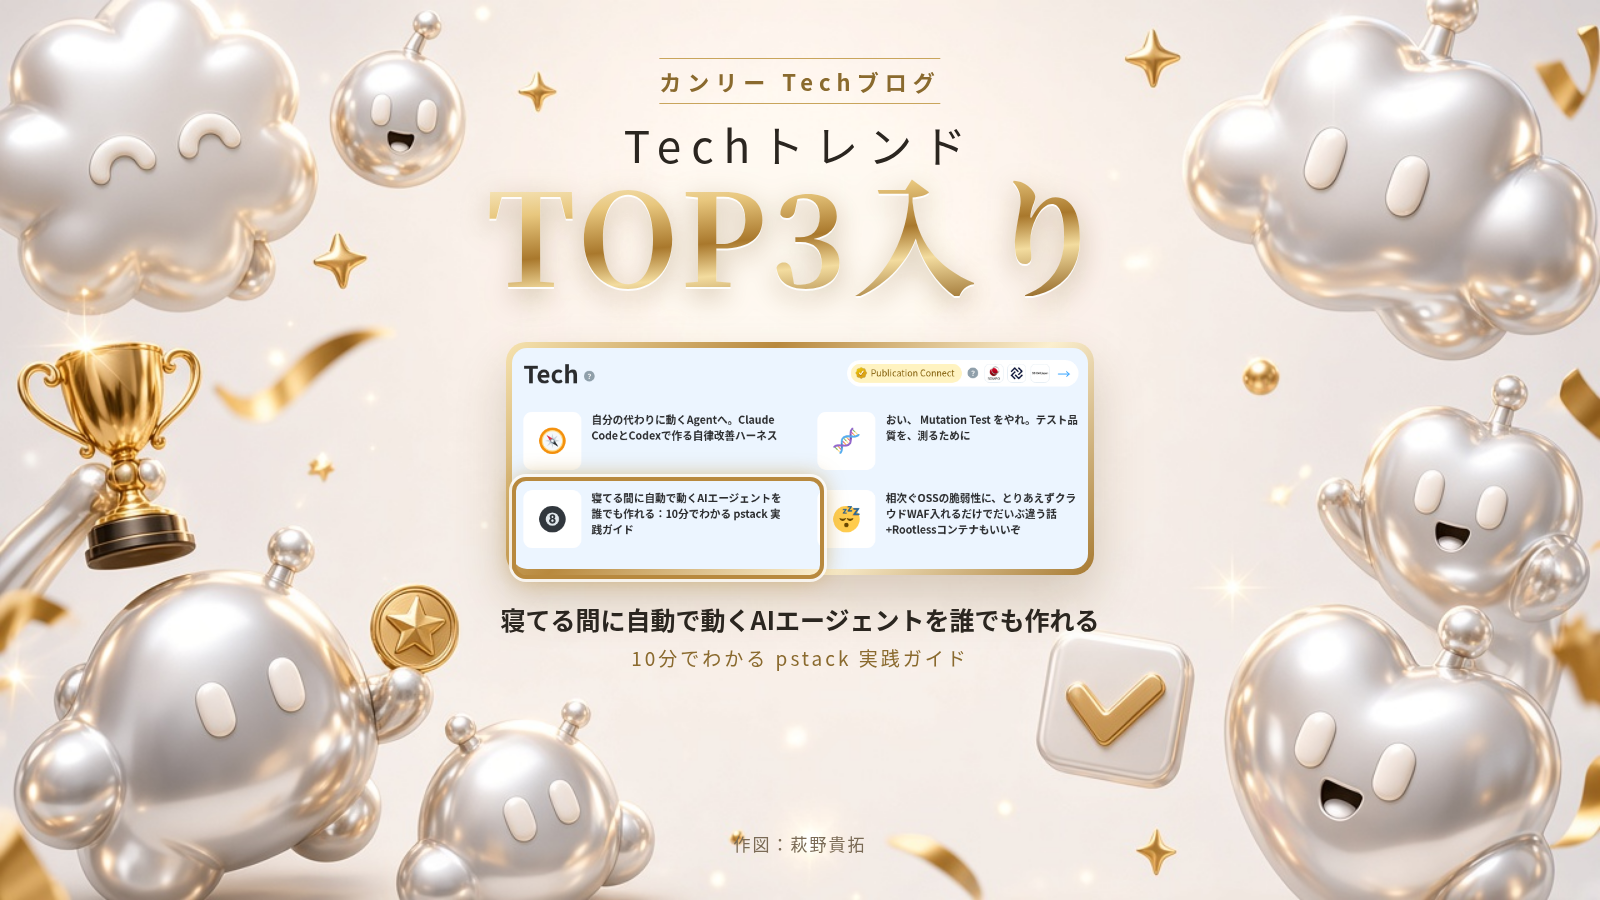
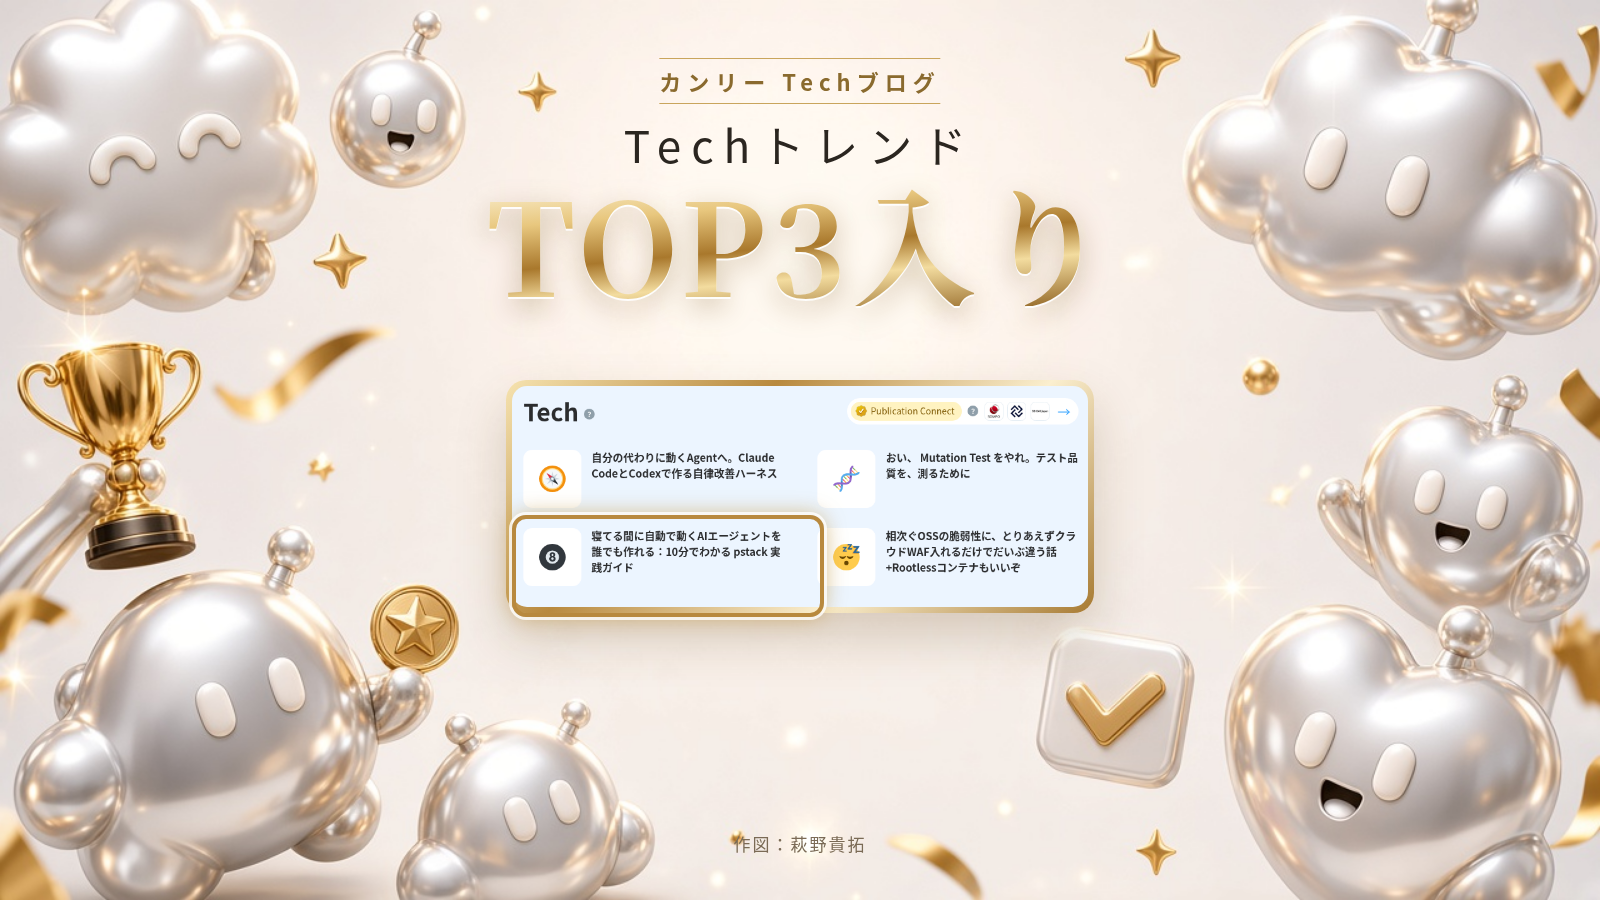
lux: drop title strip

Changed region(s): [[0.3125, 0.3733, 0.6875, 0.7467], [0.3125, 0.1867, 0.6875, 0.3422]]

diff --git a/2026-11-19/pstack-jissen/celebration/zenn_top3_lux/src/a.html b/2026-11-19/pstack-jissen/celebration/zenn_top3_lux/src/a.html
@@ -4,8 +4,8 @@ body{width:1600px;height:900px;background:url(bg.jpg) center/cover;font-family:"
 .c{position:absolute;left:50%;transform:translateX(-50%);text-align:center;white-space:nowrap}
 .lab{top:58px;color:#8a6a2e;font-weight:700;font-size:22px;letter-spacing:6px;padding:6px 0;border-top:1.5px solid #c9a55c;border-bottom:1.5px solid #c9a55c}
 .h1{top:112px;font-weight:300;font-size:44px;color:#2b2620;letter-spacing:10px}
-.h2{top:168px;font-family:"Noto Serif CJK JP","Noto Sans CJK JP",serif;font-weight:900;font-size:128px;line-height:1;letter-spacing:4px;background:linear-gradient(175deg,#fff8e1 0%,#e8c77e 28%,#a9782c 52%,#f3dc9f 70%,#8f6221 100%);-webkit-background-clip:text;color:transparent;filter:drop-shadow(0 2px 0 rgba(255,255,255,.9)) drop-shadow(0 8px 14px rgba(120,85,30,.35))}
-.card{top:342px;width:588px;padding:6px;background:linear-gradient(135deg,#f6e3b0,#b8893e,#fbefcf,#a77a32);border-radius:20px;box-shadow:0 24px 50px rgba(90,65,25,.22)}
+.h2{top:178px;font-family:"Noto Serif CJK JP","Noto Sans CJK JP",serif;font-weight:900;font-size:128px;line-height:1;letter-spacing:4px;background:linear-gradient(175deg,#fff8e1 0%,#e8c77e 28%,#a9782c 52%,#f3dc9f 70%,#8f6221 100%);-webkit-background-clip:text;color:transparent;filter:drop-shadow(0 2px 0 rgba(255,255,255,.9)) drop-shadow(0 8px 14px rgba(120,85,30,.35))}
+.card{top:380px;width:588px;padding:6px;background:linear-gradient(135deg,#f6e3b0,#b8893e,#fbefcf,#a77a32);border-radius:20px;box-shadow:0 24px 50px rgba(90,65,25,.22)}
 .card img{width:576px;display:block;border-radius:15px}
 .hl{position:absolute;left:6px;top:135px;width:312px;height:102px;border:4px solid #b8893e;border-radius:14px;box-shadow:0 0 0 3px rgba(255,255,255,.8),0 0 22px rgba(201,165,92,.8)}
 .t{top:600px;font-weight:700;font-size:25px;color:#2b2620;line-height:1.55}
@@ -16,6 +16,5 @@ body{width:1600px;height:900px;background:url(bg.jpg) center/cover;font-family:"
 <div class="c h1">Techトレンド</div>
 <div class="c h2">TOP3入り</div>
 <div class="c card"><img src="shot.png"><div class="hl"></div></div>
-<div class="c t">寝てる間に自動で動くAIエージェントを誰でも作れる<small>10分でわかる pstack 実践ガイド</small></div>
 <div class="c cr">作図：萩野貴拓</div>
 </body></html>
